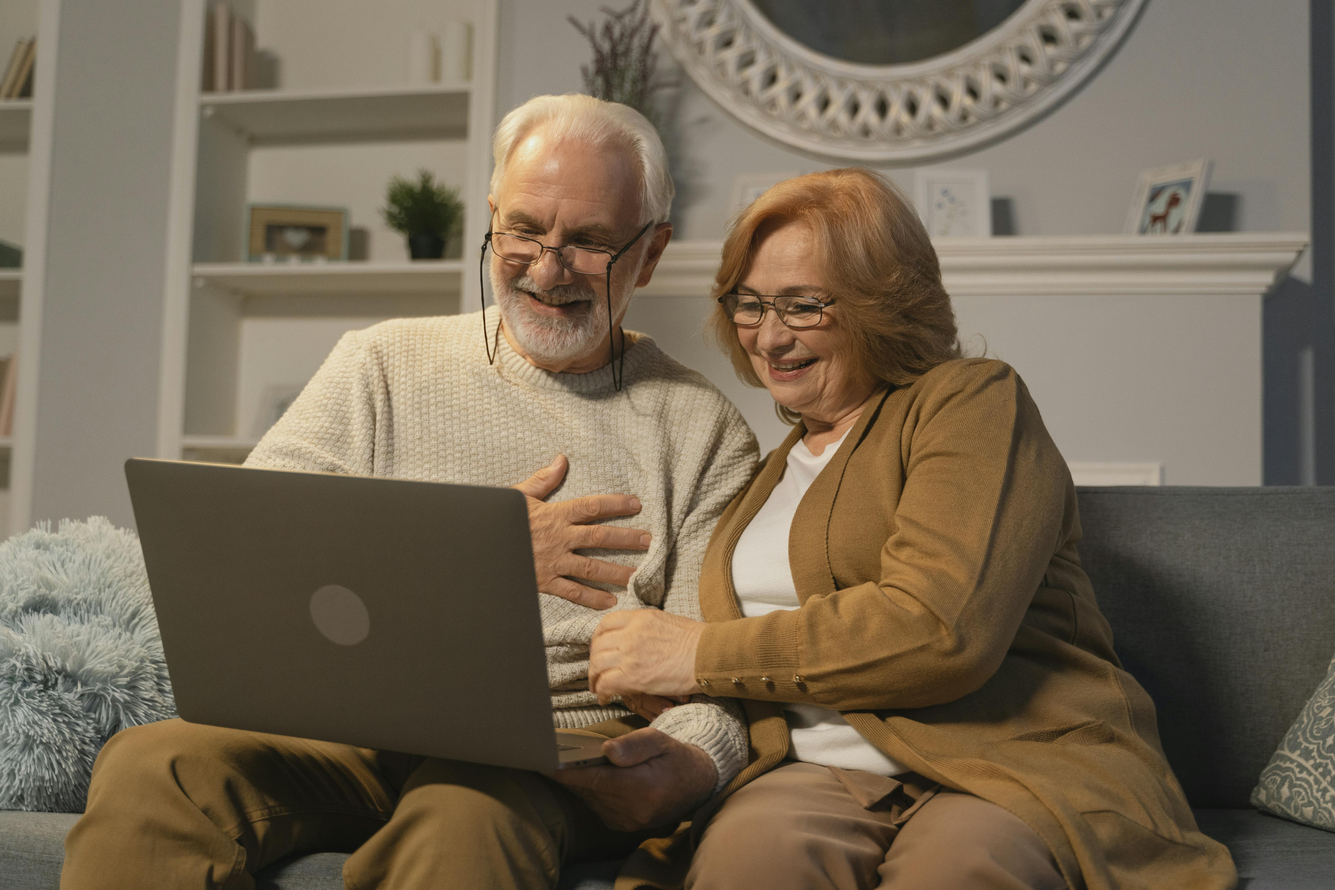
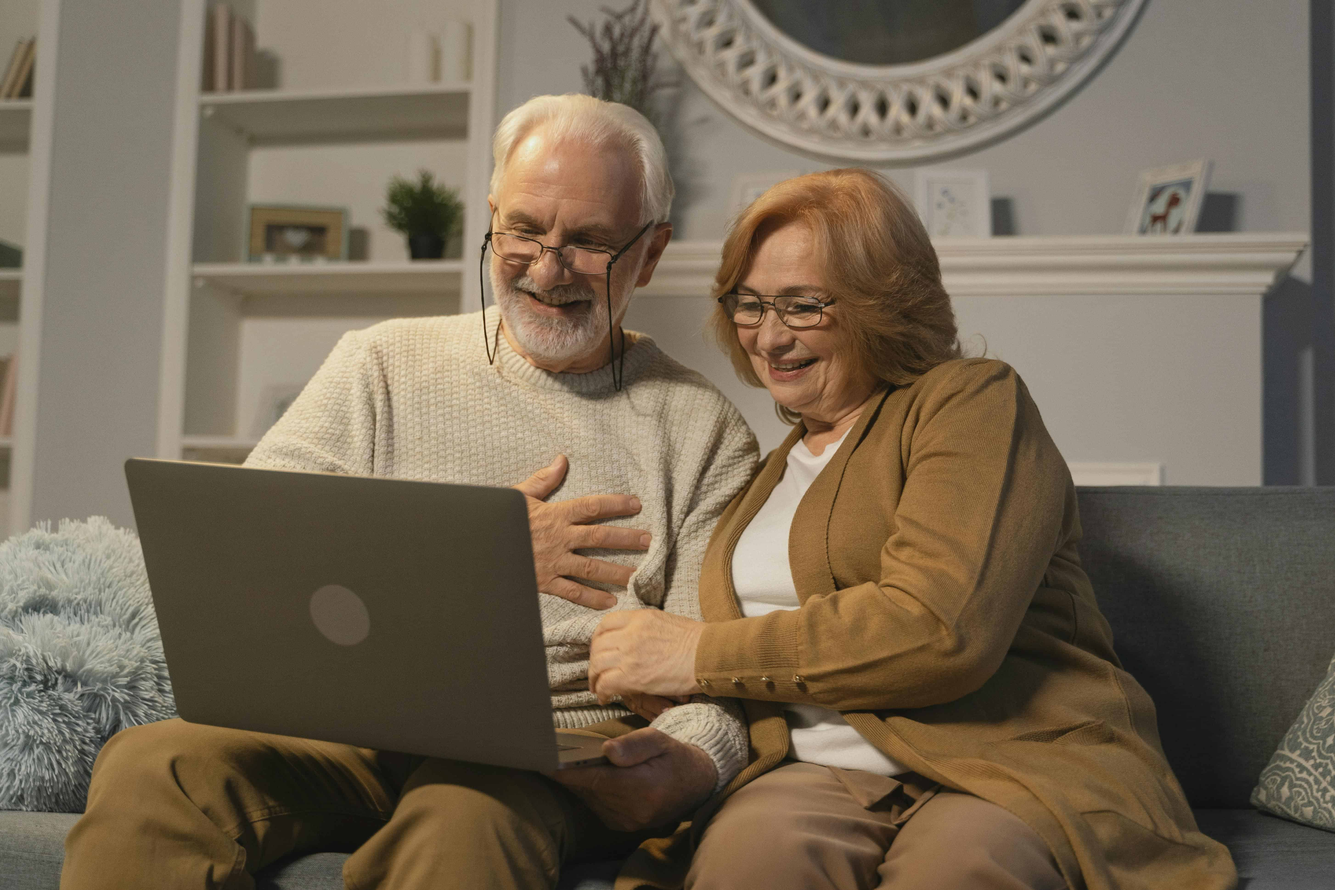
optimizar imágenes del sitio

diff --git a/README.md b/README.md
@@ -59,3 +59,7 @@ https://dev.to/daviidy/6-steps-to-deploy-your-react-nextjs-app-with-github-pages
   - **Autor:** [Pixabay](https://www.pexels.com/@pixabay)
   - **Fuente:** [Pexels](https://www.pexels.com/es-es/foto/firma-documento-contrato-261621/)
   - **Licencia:** [Pexels License](https://www.pexels.com/license/) - Uso gratuito con atribución
+
+### Image Optimizer
+
+https://shortpixel.com
